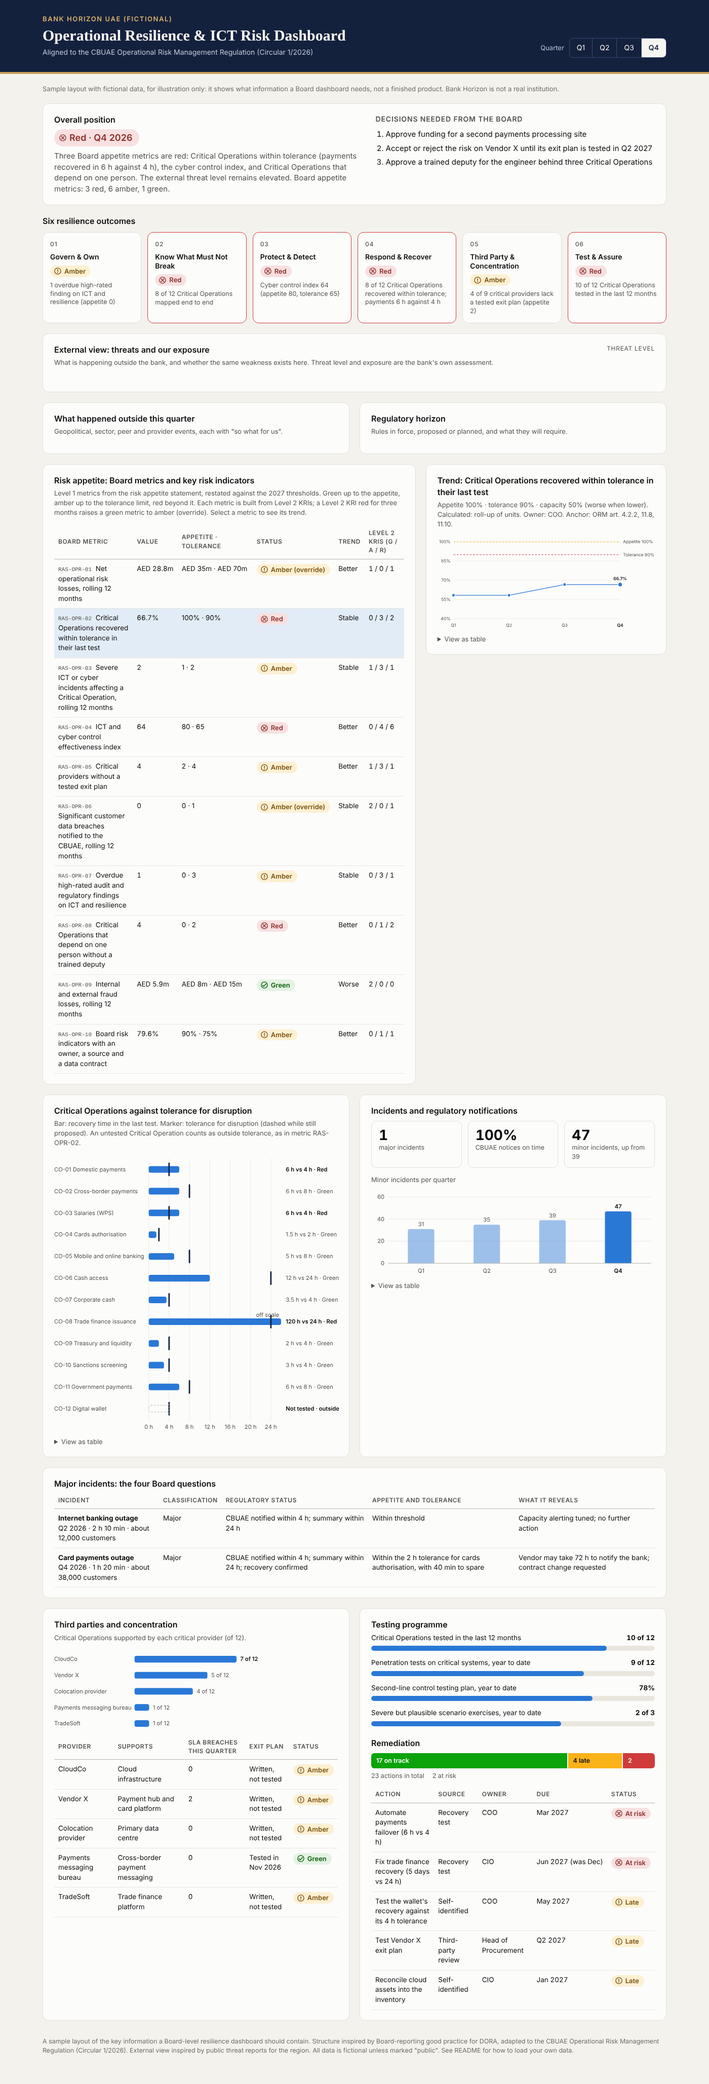
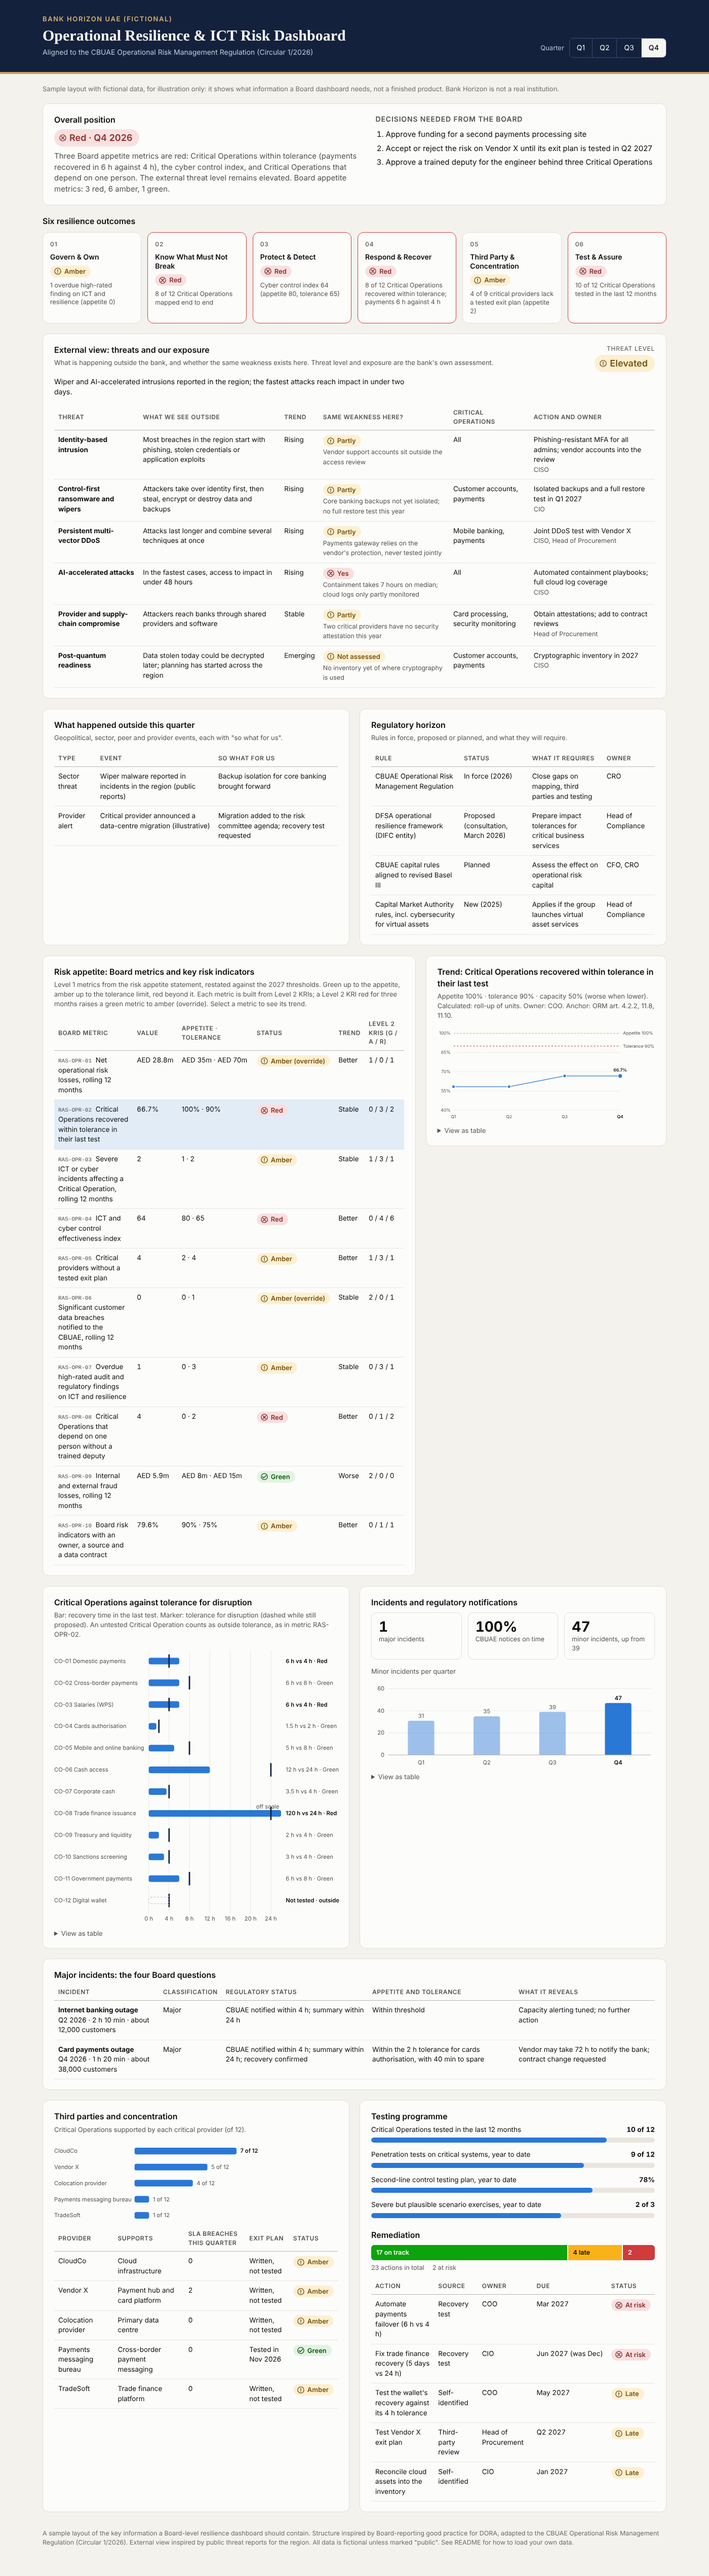
Restore the external view data (#4)
The previous update removed the external view block by mistake. Restored
as it was, with containment time aligned to KRI-INC-02 (7 hours).

Claude-Session: https://claude.ai/code/session_014LSdQfp6gM2UyGep2Ngr8m

diff --git a/dashboard-data.js b/dashboard-data.js
@@ -564,6 +564,54 @@ window.DASHBOARD_DATA = {
       "total": 3
     }
   ],
+  // External view: what is happening outside the bank, and what it means for us.
+  // Inspired by public threat reports for the UAE and the region (for example Help AG, State of the Market Report 2026).
+  // Threat level and exposure are Bank Horizon's own (fictional) assessment. Events marked "illustrative" are invented.
+  externalView: {
+    threatLevel: {
+      "Q1 2026": { status: "red",   label: "High",     driver: "Regional escalation from late February: publicly reported attack volumes against UAE organisations rose sharply. DDoS and phishing waves." },
+      "Q2 2026": { status: "amber", label: "Elevated", driver: "Attack volumes eased but stayed above 2025 levels. Identity-based attacks dominant." },
+      "Q3 2026": { status: "amber", label: "Elevated", driver: "Ransomware groups shifting to control-first campaigns: they take over identity before stealing or encrypting data." },
+      "Q4 2026": { status: "amber", label: "Elevated", driver: "Wiper and AI-accelerated intrusions reported in the region; the fastest attacks reach impact in under two days." }
+    },
+    threats: [
+      { name: "Identity-based intrusion", signal: "Most breaches in the region start with phishing, stolen credentials or application exploits", trend: "Rising",
+        exposure: "amber", exposureLabel: "Partly", why: "Vendor support accounts sit outside the access review", ops: "All", action: "Phishing-resistant MFA for all admins; vendor accounts into the review", owner: "CISO" },
+      { name: "Control-first ransomware and wipers", signal: "Attackers take over identity first, then steal, encrypt or destroy data and backups", trend: "Rising",
+        exposure: "amber", exposureLabel: "Partly", why: "Core banking backups not yet isolated; no full restore test this year", ops: "Customer accounts, payments", action: "Isolated backups and a full restore test in Q1 2027", owner: "CIO" },
+      { name: "Persistent multi-vector DDoS", signal: "Attacks last longer and combine several techniques at once", trend: "Rising",
+        exposure: "amber", exposureLabel: "Partly", why: "Payments gateway relies on the vendor's protection, never tested jointly", ops: "Mobile banking, payments", action: "Joint DDoS test with Vendor X", owner: "CISO, Head of Procurement" },
+      { name: "AI-accelerated attacks", signal: "In the fastest cases, access to impact in under 48 hours", trend: "Rising",
+        exposure: "red", exposureLabel: "Yes", why: "Containment takes 7 hours on median; cloud logs only partly monitored", ops: "All", action: "Automated containment playbooks; full cloud log coverage", owner: "CISO" },
+      { name: "Provider and supply-chain compromise", signal: "Attackers reach banks through shared providers and software", trend: "Stable",
+        exposure: "amber", exposureLabel: "Partly", why: "Two critical providers have no security attestation this year", ops: "Card processing, security monitoring", action: "Obtain attestations; add to contract reviews", owner: "Head of Procurement" },
+      { name: "Post-quantum readiness", signal: "Data stolen today could be decrypted later; planning has started across the region", trend: "Emerging",
+        exposure: "amber", exposureLabel: "Not assessed", why: "No inventory yet of where cryptography is used", ops: "Customer accounts, payments", action: "Cryptographic inventory in 2027", owner: "CISO" }
+    ],
+    events: {
+      "Q1 2026": [
+        { type: "Geopolitical", what: "Regional escalation; sharp rise in reported cyber attack volumes in the UAE (public reports)", soWhat: "Monitoring raised, daily threat briefings, DDoS readiness checked with providers" },
+        { type: "Regulatory",   what: "CBUAE Financial Institution Resilience Package approved on 17 March (public)", soWhat: "Treasury and Risk reviewed the liquidity and capital relief; no change to resilience plans" }
+      ],
+      "Q2 2026": [
+        { type: "Peer incident", what: "A regional bank's card outage traced to a vendor change (illustrative)", soWhat: "Reviewed change controls with Vendor X; one gap found and fixed" }
+      ],
+      "Q3 2026": [
+        { type: "Provider alert", what: "Actively exploited vulnerability in a widely used remote-access product (illustrative)", soWhat: "Patched in 3 days; threat hunt found no compromise" }
+      ],
+      "Q4 2026": [
+        { type: "Sector threat", what: "Wiper malware reported in incidents in the region (public reports)", soWhat: "Backup isolation for core banking brought forward" },
+        { type: "Provider alert", what: "Critical provider announced a data-centre migration (illustrative)", soWhat: "Migration added to the risk committee agenda; recovery test requested" }
+      ]
+    },
+    regulatory: [
+      { item: "CBUAE Operational Risk Management Regulation", status: "In force (2026)", impact: "Close gaps on mapping, third parties and testing", owner: "CRO" },
+      { item: "DFSA operational resilience framework (DIFC entity)", status: "Proposed (consultation, March 2026)", impact: "Prepare impact tolerances for critical business services", owner: "Head of Compliance" },
+      { item: "CBUAE capital rules aligned to revised Basel III", status: "Planned", impact: "Assess the effect on operational risk capital", owner: "CFO, CRO" },
+      { item: "Capital Market Authority rules, incl. cybersecurity for virtual assets", status: "New (2025)", impact: "Applies if the group launches virtual asset services", owner: "Head of Compliance" }
+    ]
+  },
+
   // Remediation, per quarter.
   remediation: {
     "Q1 2026": {
